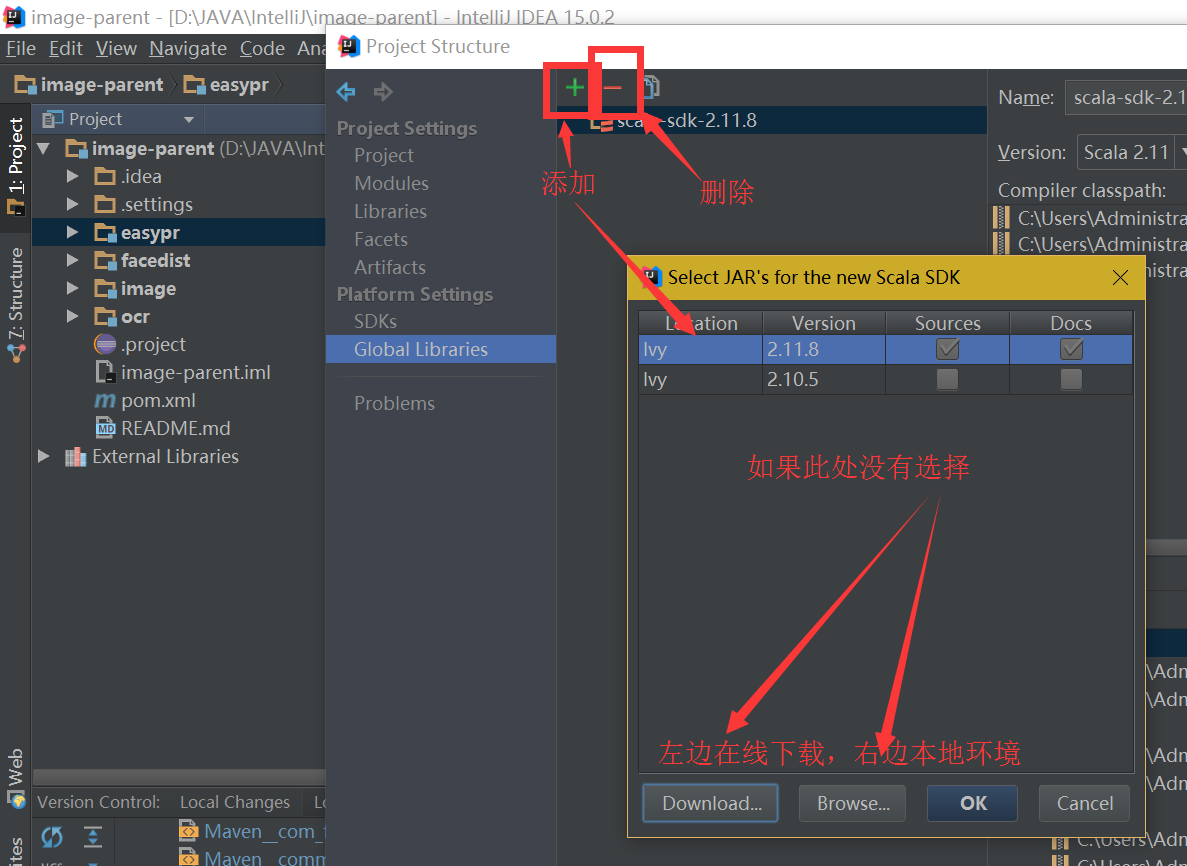
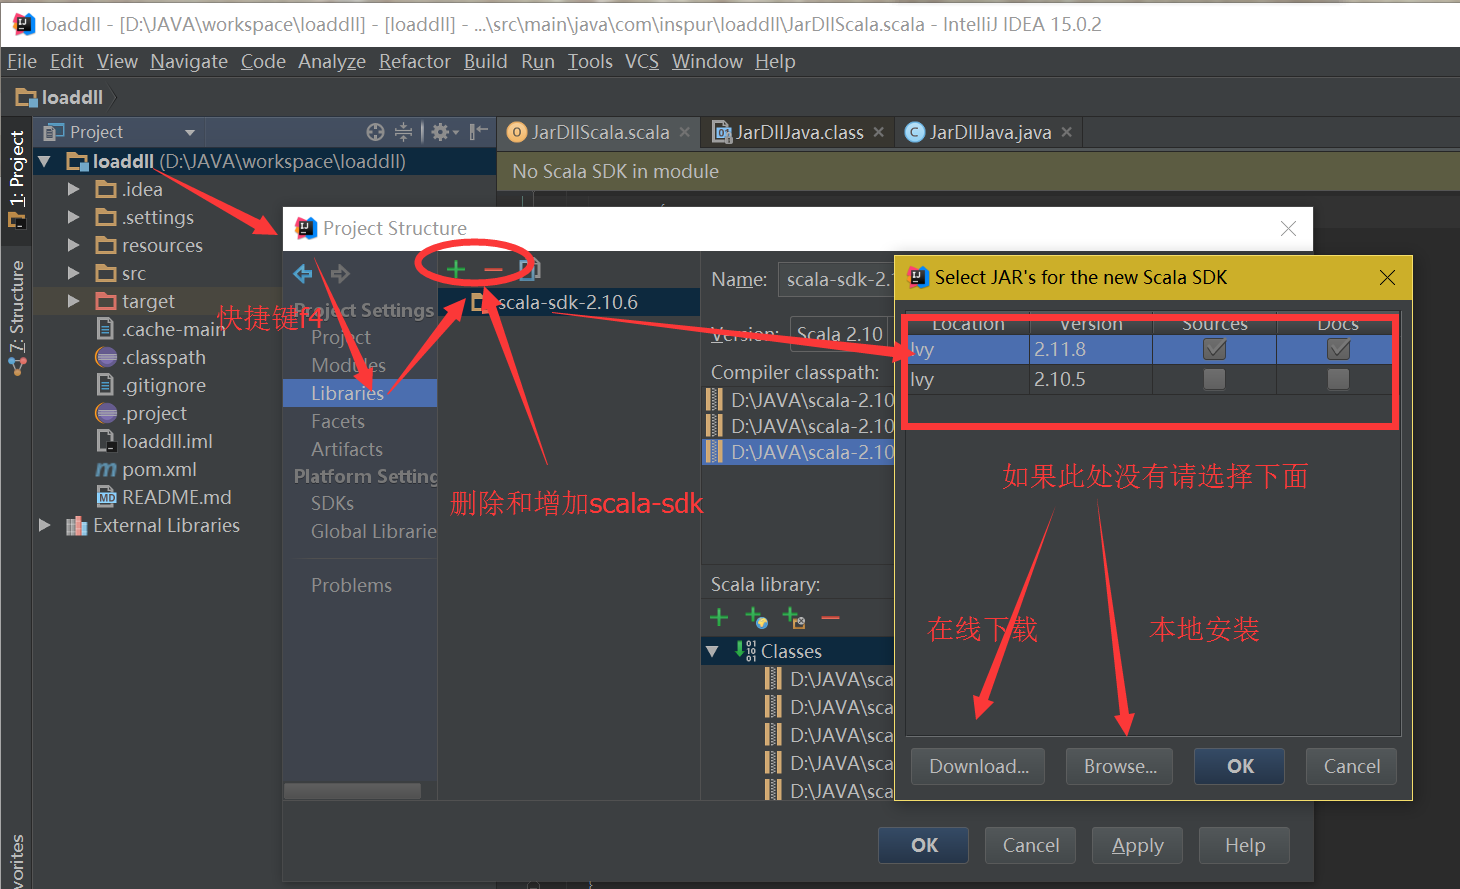
删除和修改intellij-idea 配置scala环境的bug，之前是全局配置，应该换为局部配置

diff --git a/README.md b/README.md
@@ -22,9 +22,7 @@
 #### 注：如果安装失败，请用下面的方法
 #### 图2-2 intellij-idea-scala插件离线安装[地址][4]
 ![intellij-scala插件安装](resources/intellij离线安装scala版本.png)
-#### 图2-3 intellij-java添加scalalib
-![intellij-java添加scalalib](resources/intellij-java添加scalalib.png)
-#### 图2-4 intellij-java添加和删除scalalib
+#### 图2-3 intellij-java添加和删除scalalib
 ![intellij添加和去除scalalib](resources/intellij-java添加和去除scalalib.png)
 
 
